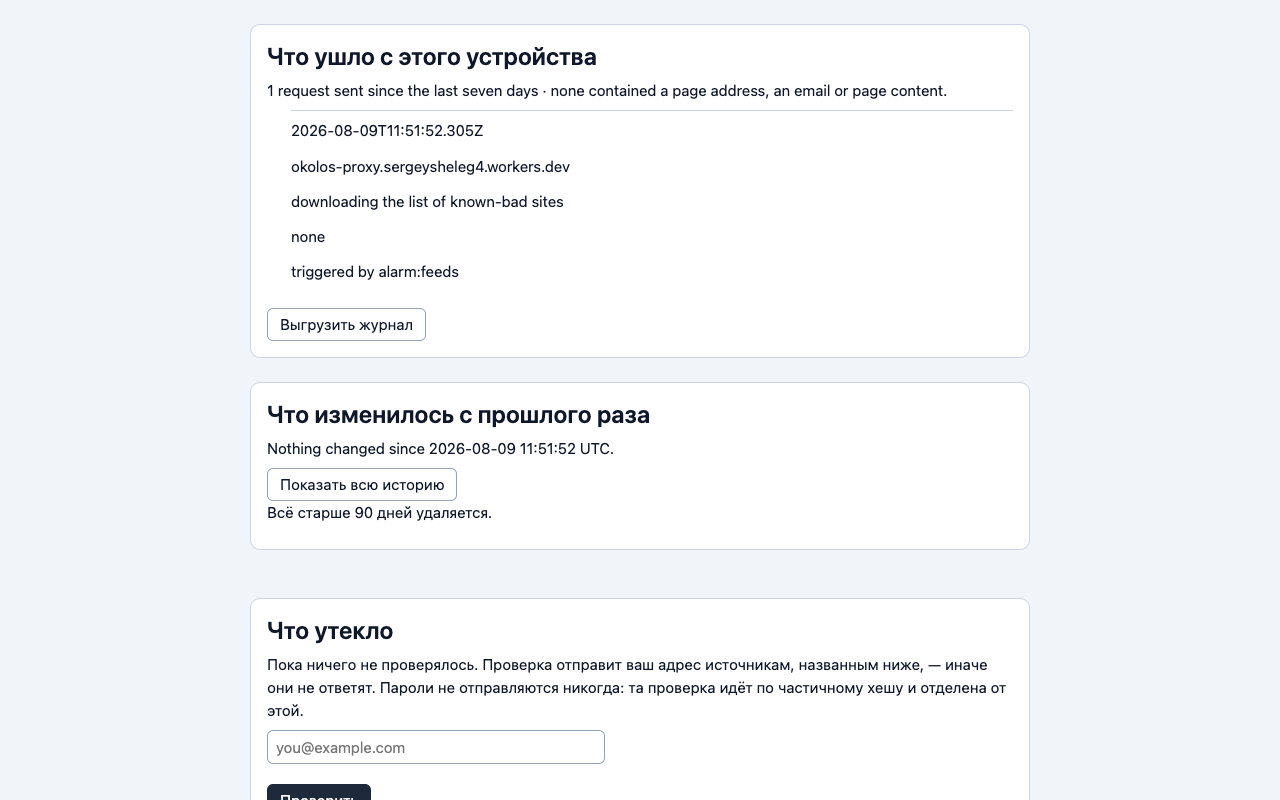
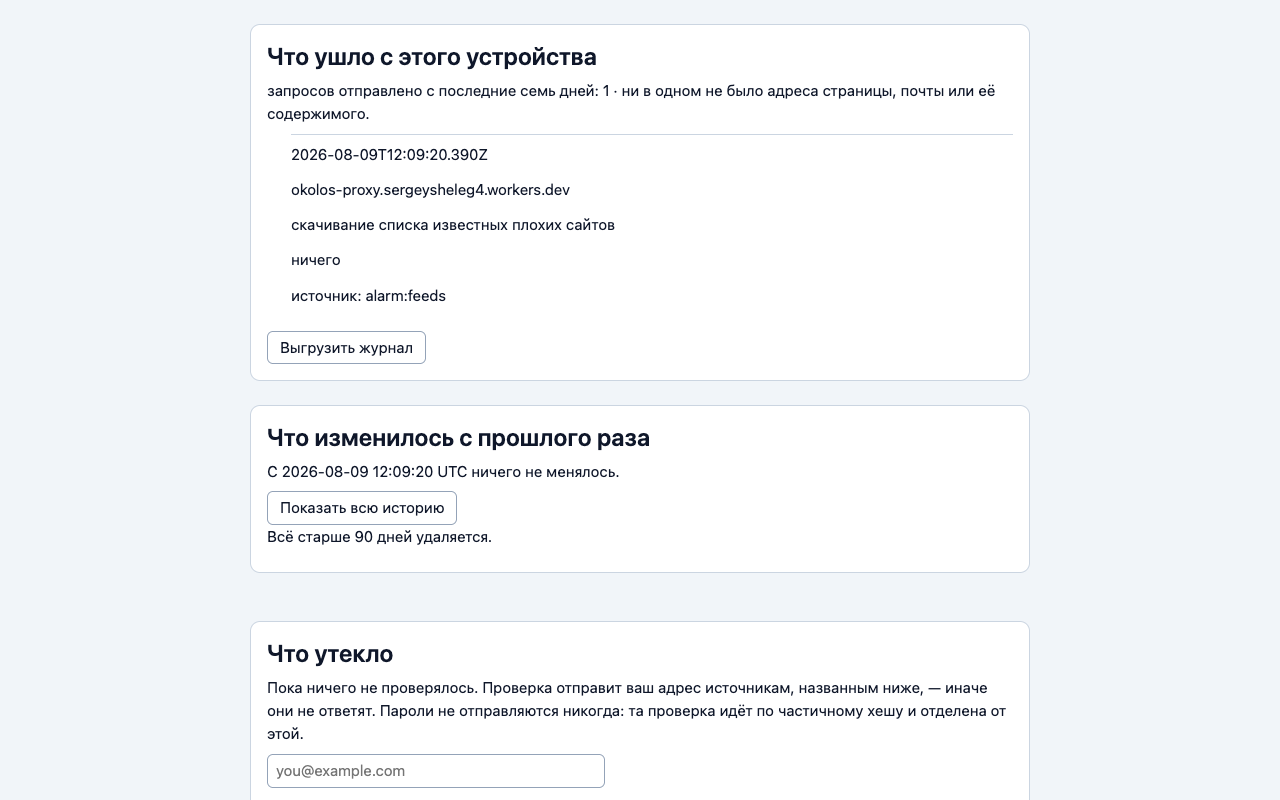
feat(i18n): the audit log, and the copy that was hiding inside data
The self-audit panel and the trusted list now read from the catalogue: the
egress summary, the six request purposes, the trigger line, and the three
reasons a domain comes to be trusted.

The purposes and the reasons needed a different fix from the rest, and it is
the point of this commit. Both are *records*. Translating on write would freeze
whichever language was active that day into the audit log and the trusted list,
and a log half in each language has stopped being one record. So they store a
key and resolve on read — the pattern the journal adopted for explainKey,
extended to exception rows as reasonKey. No migration: guessing which key an old
English sentence came from is how a record stops being evidence, so rows written
before today keep their sentence and are shown as written.

Three strings were invisible to pnpm i18n:sweep, written an hour earlier to stop
this kind of guessing, and were found by looking at the screenshot instead:
`since: 'the last seven days'` arrives as a substitution, `payloadShape: 'none'`
arrives from storage, and the journal's empty line was a template literal one
file over. A sweep over source literals sees copy that is a literal in the
module that renders it, and nothing else. The tool's docstring now says that: a
number from it is a floor, not a total.

Only the bare "none" is translated on read; `email:…` and `hash-prefix:…` are
shapes, and a shape reads the same in every language.
[…]

Changed region(s): [[0.2188, 0.0938, 0.7812, 0.4688], [0.1875, 0.7812, 0.7812, 1.0], [0.1875, 0.5, 0.5312, 0.6875]]

diff --git a/packages/ui/src/self-audit/panel.ts b/packages/ui/src/self-audit/panel.ts
@@ -79,10 +79,10 @@ function summarise(entries: readonly AuditEntry[], since: string): string {
   const blocked = entries.filter((e) => e.outcome === 'blocked-by-redactor').length
   const failed = entries.filter((e) => e.outcome === 'failed').length
 
-  const parts = [`${sent} request${sent === 1 ? '' : 's'} sent since ${since}`]
-  if (failed > 0) parts.push(`${failed} failed`)
-  if (blocked > 0) parts.push(`${blocked} refused before sending`)
-  parts.push('none contained a page address, an email or page content')
+  const parts = [t('auditSummarySent', String(sent), since)]
+  if (failed > 0) parts.push(t('auditSummaryFailed', String(failed)))
+  if (blocked > 0) parts.push(t('auditSummaryBlocked', String(blocked)))
+  parts.push(t('auditSummaryNoContent'))
   return `${parts.join(' · ')}.`
 }
 
@@ -93,22 +93,36 @@ function row(doc: Document, entry: AuditEntry): HTMLLIElement {
   item.append(
     text(doc, 'entry-time', entry.createdAt),
     text(doc, 'entry-destination', entry.destination),
-    text(doc, 'entry-purpose', PURPOSE_WORDING[entry.purpose] ?? entry.purpose),
-    // The exact shape of what was sent, in the user's terms rather than ours.
-    text(doc, 'entry-payload', entry.payloadShape),
-    text(doc, 'entry-trigger', `triggered by ${entry.triggeredBy}`),
+    // The purpose id is the fallback on purpose: a destination this build does
+    // not have wording for is still shown, named as the contract names it,
+    // rather than vanishing from the log that exists to be complete.
+    text(doc, 'entry-purpose', purposeKey(entry.purpose) ? t(purposeKey(entry.purpose) as string) : entry.purpose),
+    // Translated on read, never on write. `payloadShape` is stored in the audit
+    // log, and a log written in whatever language was active that day stops
+    // being one record. Only the bare "none" is prose; `email:…` and
+    // `hash-prefix:…` are shapes, and shapes are the same in every language.
+    text(
+      doc,
+      'entry-payload',
+      entry.payloadShape === 'none' ? t('auditPayloadNone') : entry.payloadShape,
+    ),
+    text(doc, 'entry-trigger', t('auditTriggeredBy', entry.triggeredBy)),
   )
   return item
 }
 
-const PURPOSE_WORDING: Record<string, string> = {
-  'feed-update': 'downloading the list of known-bad sites',
-  'model-update': 'downloading the detection model',
-  'password-range': 'checking a password against known leaks',
-  'leak-lookup': 'checking an address against known breaches',
-  'file-hash': 'checking a downloaded file',
-  'domain-status': 'checking a domain status',
+/** Keys, not sentences: a table of words built at module load resolves before
+ * `useResolver` runs and freezes the fallback into every screen. */
+const PURPOSE_KEY: Record<string, string> = {
+  'feed-update': 'auditPurposeFeedUpdate',
+  'model-update': 'auditPurposeModelUpdate',
+  'password-range': 'auditPurposePasswordRange',
+  'leak-lookup': 'auditPurposeLeakLookup',
+  'file-hash': 'auditPurposeFileHash',
+  'domain-status': 'auditPurposeDomainStatus',
 }
+
+const purposeKey = (purpose: string): string | undefined => PURPOSE_KEY[purpose]
 
 function text(doc: Document, role: string, content: string): HTMLParagraphElement {
   const el = doc.createElement('p')

diff --git a/apps/extension/src/background/index.ts b/apps/extension/src/background/index.ts
@@ -286,7 +286,7 @@ async function allowBlocked(payload: { url: string }): Promise<{ url: string } |
       scope: 'domain',
       ref: host,
       createdAt: new Date().toISOString(),
-      reason: 'continued past a block',
+      reasonKey: 'trustContinuedPastBlock',
     })
     await db.put('journal', {
       id: `exception:${host}:${new Date().toISOString()}`,
@@ -486,7 +486,7 @@ async function trustExtensionChange(payload: { id: string }): Promise<{ ok: true
       scope: 'extension',
       ref: payload.id,
       createdAt: now,
-      reason: 'the user accepted this change',
+      reasonKey: 'trustChangeAccepted',
     })
     await db.put('journal', {
       id: `extension-trusted:${payload.id}:${now}`,
@@ -578,7 +578,7 @@ async function openRecovery(payload: { kind: string }): Promise<{ ok: true }> {
 
 async function listTrusted(): Promise<{
   domains: string[]
-  entries: Array<{ domain: string; grantedAt: string; reason?: string }>
+  entries: Array<{ domain: string; grantedAt: string; reasonKey?: string; reason?: string }>
 }> {
   try {
     const db = await openDb()
@@ -588,6 +588,9 @@ async function listTrusted(): Promise<{
       entries: rows.map((row) => ({
         domain: row.ref,
         grantedAt: row.createdAt,
+        // Both travel: the key for rows written since the move, the sentence
+        // for those written before it. The screen decides which it has.
+        ...(row.reasonKey ? { reasonKey: row.reasonKey } : {}),
         ...(row.reason ? { reason: row.reason } : {}),
       })),
     }
@@ -630,7 +633,7 @@ async function addTrusted(payload: { domain: string }): Promise<{ ok: true }> {
       scope: 'domain',
       ref: payload.domain,
       createdAt: new Date().toISOString(),
-      reason: 'marked legitimate by the user',
+      reasonKey: 'trustMarkedLegitimate',
     })
     await refreshBlockRules()
   } catch (cause) {

diff --git a/packages/ui/src/self-audit/panel.test.ts b/packages/ui/src/self-audit/panel.test.ts
@@ -83,14 +83,18 @@ describe('the log itself', () => {
 
   it('summarises what was sent, what failed and what was refused', () => {
     const summary = el.querySelector('[data-role=summary]')?.textContent ?? ''
-    expect(summary).toContain('1 request sent since Monday')
-    expect(summary).toContain('1 failed')
-    expect(summary).toContain('1 refused before sending')
+    expect(summary).toContain(message('auditSummarySent').split('$')[0]?.trim())
+    // The counts, and that each category is named at all. The wording of the
+    // three phrases is the catalogue's business; that none of them is silently
+    // dropped is this test's.
+    expect(summary).toContain(message('auditSummaryFailed').split('$')[0]?.trim())
+    expect(summary).toContain(message('auditSummaryBlocked').split('$')[0]?.trim())
+    expect(summary).toMatch(/1[^\d]*1[^\d]*1/)
   })
 
   it('states the absence as well as the presence', () => {
     expect(el.querySelector('[data-role=summary]')?.textContent).toContain(
-      'none contained a page address, an email or page content',
+      message('auditSummaryNoContent'),
     )
   })
 
@@ -107,7 +111,7 @@ describe('the log itself', () => {
 
   it('explains the purpose in the reader’s words, not in ours', () => {
     expect(el.querySelector('[data-role=entry-purpose]')?.textContent).toBe(
-      'checking a password against known leaks',
+      message('auditPurposePasswordRange'),
     )
   })
 

diff --git a/packages/ui/src/trusted/trusted.ts b/packages/ui/src/trusted/trusted.ts
@@ -20,7 +20,9 @@ import { t } from '@okolos/i18n'
 export interface TrustedDomain {
   readonly domain: string
   readonly grantedAt: string
-  /** The user's own words, or ours describing what they clicked. */
+  /** A catalogue key, resolved here so the reader's language decides. */
+  readonly reasonKey?: string
+  /** A sentence stored before the move to keys. Shown as recorded. */
   readonly reason?: string
 }
 
@@ -69,8 +71,10 @@ export function renderTrusted(
       text(
         doc,
         'granted',
-        entry.reason
-          ? `${shortDate(entry.grantedAt)} — ${entry.reason}`
+        // Key first, stored sentence second, date alone when there is neither
+        // — the same order the journal reads in, for the same reason.
+        entry.reasonKey ?? entry.reason
+          ? `${shortDate(entry.grantedAt)} — ${entry.reasonKey ? t(entry.reasonKey) : entry.reason}`
           : t('trustedGrantedOn', shortDate(entry.grantedAt)),
       ),
       button(doc, 'revoke', t('trustedRevoke'), () => handlers.onRevoke(entry.domain)),

diff --git a/packages/storage/src/schema.ts b/packages/storage/src/schema.ts
@@ -57,6 +57,17 @@ export interface ExceptionRecord {
   scope: 'domain' | 'rule' | 'extension'
   ref: string
   createdAt: string
+  /**
+   * A catalogue key, resolved when the row is read, so the reader's language
+   * decides rather than the language in force when they clicked. The same
+   * shape the journal already uses for `explainKey`.
+   */
+  reasonKey?: string
+  /**
+   * A sentence stored before that move. It stays as written — rewriting it to
+   * look translated would be inventing which key it came from, and the trusted
+   * list is a record of decisions, not a place to guess.
+   */
   reason?: string
 }
 

diff --git a/apps/extension/src/options/index.ts b/apps/extension/src/options/index.ts
@@ -342,7 +342,7 @@ async function load(): Promise<PanelState> {
     const db = await openDb()
     const entries = await db.getAll('outbound_log')
     if (entries.length === 0) return { kind: 'empty' }
-    return { kind: 'ready', entries, since: 'the last seven days' }
+    return { kind: 'ready', entries, since: t('auditSinceSevenDays') }
   } catch (cause) {
     return { kind: 'error', message: String(cause) }
   }

diff --git a/packages/ui/src/journal/journal.ts b/packages/ui/src/journal/journal.ts
@@ -53,7 +53,7 @@ export function renderJournal(
         'empty',
         diff.since === null
           ? t('journalEmpty')
-          : `Nothing changed since ${shortTime(diff.since)}.`,
+          : t('journalNothingChanged', shortTime(diff.since)),
       ),
     )
   } else {

diff --git a/docs/superpowers/retro.md b/docs/superpowers/retro.md
@@ -1149,3 +1149,32 @@ think you are testing*.
   down, reviewable and the same every run, and `--list` prints file and line so
   the number can be checked rather than believed. The generate-what-would-drift
   rule (ADR-0007) applies to measurements, not only to documents.
+
+### 2026-08-09 — untranslated copy travelling as data
+
+- **Symptom:** the self-audit screenshot read "запросов отправлено с the last
+  seven days: 1", and one row's payload said "none" among Russian neighbours —
+  while `pnpm i18n:sweep`, written that same hour to stop exactly this kind of
+  guessing, reported the file clean.
+- **Root cause:** a sweep over source literals can only see copy that *is* a
+  literal in the module that renders it. Two other shapes exist and it is blind
+  to both:
+    - a value handed in as a substitution — `since: 'the last seven days'` sits
+      in the options page, arrives as an argument, and reads as English inside a
+      Russian sentence;
+    - a field stored on a record and rendered later — `payloadShape: 'none'`,
+      written by the background into the audit log.
+- **Owned by:** the measurement, again, and this time it was found by looking
+  at a picture. The sweep now says so in its own docstring: a number from it is
+  a floor, not a total.
+- **The stored-field case has a rule, and it is not "translate it".** The audit
+  log and the trusted list are records. Translating on write freezes whichever
+  language was active that day into evidence, and a log half in each language
+  has stopped being one record. So: store a key, resolve on read — the pattern
+  the journal already used for `explainKey`, now extended to exception rows
+  (`reasonKey`) and to the one payload shape that is prose rather than shape.
+  `email:…` and `hash-prefix:…` stay as they are; a shape reads the same in
+  every language.
+- **No migration, deliberately**, following the journal's note: guessing which
+  key an old English sentence came from is how a record stops being evidence.
+  Rows written before today keep their sentence and are shown as written.
